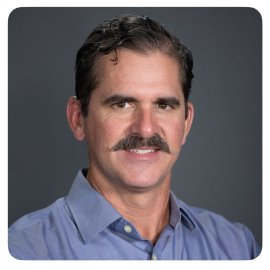
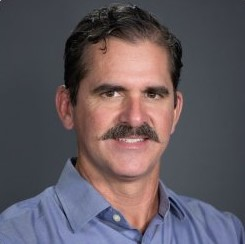
Team Tab Image Changes

diff --git a/team.html b/team.html
@@ -25,7 +25,7 @@
 
 								<!-- Nav -->
 									<nav id="nav">
-										<a href="home.html">Home</a>
+										<a href="index.html">Home</a>
 										<a href="team.html">Team</a>
 										<a href="flood.html">Flood Forecasting</a>
 										<a href="project.html">Project Outcomes</a>
@@ -38,17 +38,19 @@
 				</section>
 
 			<!-- Content -->
-				<section id="content">
-					<div class="container">
-						<div class="row">
+				<section id="content" style="background-color:white;">
+					<div class="container" >
+						<div class="row" >
 							<div class="col-4 col-12-medium">
 								<section>
+									
 									<header>
 										<h2>Efthymios Nikolopoulos</h2>
 									</header>
-									<a href="#" class="bordered-feature-image"><img src="images/Thymios.jpg" alt="" /></a>
+									<p style="text-align: center;">
+									<img src="images/Thymios_profile_picture.jpg" height="250px"/></p>
 									<ul class="link-list">
-									<p>
+									<p style="text-align: justify;">
 										Dr. Efthymios (Thymios) Nikolopoulos is Associate Professor of Civil and Environmental Engineering at Rutgers University – New Brunswick in Piscataway, New Jersey, USA. He received his Environmental Engineering Diploma from the Technical University of Crete, Greece, his M.Sc. degree from the University of Iowa, and his Ph.D. degree from the University of Connecticut, USA. His expertise is in the modeling and monitoring of hydrometeorological and hydrological extremes. His work focuses on the integration of remote sensing earth observations with numerical and statistical models to advance prediction of hydrological hazards. Thymios is the Principal Investigator of this project, coordinating the development of the flash flood forecasting system and capacity building activities at the West Africa hub.
 										<br>
 										Email : efthymios.nikolopoulos@rutgers.edu
@@ -64,9 +66,12 @@
 										<header>
 											<h2>JJ Gourley</h2>
 										</header>
-										<a href="#" class="bordered-feature-image"><img src="images/JJ_Gourley.jpeg" alt="" /></a>
+										<!-- <a href="#" class="bordered-feature-image"> -->
+											<p style="text-align: center;">
+											<img src="images/JJ_Gourley.jpeg" height="250px"/></p>
+										<!-- </a> -->
 										<ul class="link-list">
-											<p>
+											<p style="text-align: justify;">
 												Dr. Jonathan J. Gourley is a Research Hydrometeorologist with the NOAA/National Severe Storms Laboratory and an Affiliate Associate Professor with the School of Meteorology and Civil Engineering departments at the University of Oklahoma. He received his B.S. (1996) and M.S. degrees (1998) in Meteorology and Ph.D. in Civil Engineering (2003) from the University of Oklahoma. From 2004-2005, he joined MétéoFrance in Paris, France for his post-doctoral studies where he focused on dual-polarization radar data quality and hydrometeor classification. He rejoined NSSL in 2006 as a federal employee. His primary research interests are in unique observations of stormscale hydrometeorological states and fluxes and development of models to forecast them. He manages an interdisciplinary team that is responsible for the research, development, and transition of the FLASH system to the U.S. National Weather Service for operational flash flood monitoring and prediction. Dr. Gourleyhas won the Department of Commerce Bronze and two Silver Medal Awards, the American Meteorological Society Journal of Hydrometeorology Editor’s Award, and NASA’s Group Achievement and Robert H. Goddard Team Awards for his contributions to the algorithms comprising the Global Precipitation Measurement mission. He has served as the chair of the AMSCommittee on Nationwide Network of Networks since 2020. Dr. Gourley is an Associate Editor for the American Geophysical Union’s Water Resources Research journal. He has published over 160 peer-reviewed journal articles achieving an h-index of 58 and he is the co-author of the Radar Hydrology textbook. 
 
 											</p>
@@ -78,9 +83,10 @@
 										<header>
 											<h2>Georgios</h2>
 										</header>
-										<a href="#" class="bordered-feature-image"><img src="images/georgios.jpg" alt="" /></a>
+										<p style="text-align: center;"><img src="images/georgios.jpg" height="250px"/></p>
+										
 										<ul class="link-list">
-											<p>
+											<p style="text-align: justify;">
 												Short bio and role on this project
 												<br> <br> <br> <br> <br> <br> <br> <br> <br> <br> <br> <br> <br> <br> <br> <br><br> <br> <br> <br> <br> <br><br> <br> <br> <br> <br> <br><br> <br> <br> <br>
 											</p>
@@ -92,11 +98,12 @@
 										<header>
 											<h2>Gonzalo</h2>
 										</header>
-										<a href="#" class="bordered-feature-image"><img src="images/Gonzalo.jpg" alt="" /></a>
+										<p style="text-align: center;">
+										<img src="images/Gonzalo.jpg" height="250px" /></p>
 										<ul class="link-list">
-											<p>
+											<p style="text-align: justify;">
 												Short bio and role on this project
-												<br> <br> <br> <br> <br> <br> <br> <br> <br> <br> <br> <br> <br> <br> <br> <br>
+												<br> <br> <br> <br> <br> <br> <br> <br> <br> <br> <br> <br> <br> <br> <br> <br> 
 											</p>
 										</ul>
 									</section>
@@ -106,11 +113,12 @@
 										<header>
 											<h2>Malihe Nasibi</h2>
 										</header>
-										<a href="#" class="bordered-feature-image"><img src="images/Malihe.jpeg" alt="" /></a>
+										<p style="text-align: center;">
+										<img src="images/Malihe.jpg" height="250px"/></p>
 										<ul class="link-list">
-											<p>
+											<p style="text-align: justify;">
 											Malihe is a Ph.D. student in the water resources program at George Mason University, working under the guidance of Dr. Maggioni. She received master’s degree in water resources engineering from PWUT, Tehran, Iran. Her research interests are rooted in water resources engineering, concentrating on hydrologic modeling, satellite-based remote sensing, extreme precipitation, and flood forecasting. Her current research focuses on the spatial patterns and temporal trends of extreme precipitation in West Africa.
-											<br> <br> <br> <br> <br> <br> <br>
+											<br> <br> <br> <br> <br> <br> <br> 
 										</p>
 										</ul>
 									</section>
@@ -120,9 +128,10 @@
 										<header>
 											<h2>Akshay Aravamudan</h2>
 										</header>
-										<a href="#" class="bordered-feature-image"><img src="images/akshay.jpg" alt="" /></a>
+										<p style="text-align: center;">
+										<img src="images/akshay.jpg" height="250px" /></p>
 										<ul class="link-list">
-											<p>
+											<p style="text-align: justify;">
 												Akshay Aravamudan is a doctoral student majoring in computer engineering at Florida Institute of Technology. His research areas of interest include machine learning, stochastic point processes for the study of information diffusion and influence characterization in social media, machine learning for hydrology and machine learning on the edge. Before joining FIT’s Center for Advanced Data Analytics & Systems (CADAS), he obtained his Masters of Science in computer engineering at Florida Institute of Technology. His masters thesis involved the study of information diffusion in social media via the use of multivariate survival processes. More information can obtained in his website :
 												<br>
 												<a href="https://aaravamudan2014.github.io/Akshay-Aravamudan/">Github</a>
@@ -139,9 +148,9 @@
 										<header>
 											<h2>Humberto Vergara</h2>
 										</header>
-										<a href="#" class="bordered-feature-image"><img src="images/VergaraH.jpeg" alt="" /></a>
+										<p style="text-align: center;"><img src="images/VergaraH.jpeg" height="250px" width="220px" /></p>
 										<ul class="link-list">
-											<p>
+											<p style="text-align: justify;">
 												Short bio and role on this project
 												<br> <br> <br> <br> <br> <br> <br> <br> <br> <br> <br> <br> <br> <br> <br> <br> <br> <br> <br> <br> <br> <br> <br> <br> <br> <br> <br> <br> <br> <br>
 											</p>
@@ -153,9 +162,9 @@
 										<header>
 											<h2>Viviana Maggioni</h2>
 										</header>
-										<a href="#" class="bordered-feature-image"><img src="images/V_Maggioni.jpg" alt="" /></a>
+										<p style="text-align: center;"><img src="images/V_Maggioni_satellite1.jpg" height="250px" width="230px" /></p>
 										<ul class="link-list">
-											<p>
+											<p style="text-align: justify;">
 												Viviana Maggioni, PhD. is Associate Professor of Environmental and Water Resources Engineering at George Mason University. Dr. Maggioni received her B.S. and M.S. degrees in Environmental Engineering from the Polytechnic University of Milan, Italy, in 2003 and 2006 respectively, and her Ph.D. degree in Environmental Engineering from the University of Connecticut, Storrs, in 2012. Her research interests lie at the intersection of hydrology and remote sensing. In particular, she is interested in the application of satellite remote sensing techniques to estimate and monitor hydrological variables at the local to global scale. Her work has direct applications in water resources management, weather and climate prediction, as well as agriculture and irrigation practices. Since 2010, she has published 67 peer-reviewed scientific articles, 5 book chapters, 3 scientific reports, and co-edited a book on Extreme Hydroclimatic Events and Multivariate Hazards in a Changing Climate (Elsevier, 2019). She is the Editor in Chief of the Journal of Hydrometeorology (American Meteorological Society Publications) and Associate Editor of Frontier in Climate – Climate Services. She currently serves as the Chair of the American Geophysical Union (AGU) Fall Meeting Program Committee for the Hydrology Section and as the Director of Undergraduate Affairs in her Department at Mason. She has served as one of the two co-chairs of the International Precipitation Working Group (IPWG) and the Chair of the AGU Technical Committee on Precipitation.
 												<br>
 												<a href="https://maggioni.vse.gmu.edu/">Profile Link</a>
@@ -168,9 +177,10 @@
 											<header>
 												<h2>Vanessa Robledo D</h2>
 											</header>
-											<a href="#" class="bordered-feature-image"><img src="images/Robledo_V.jpg" alt="" /></a>
+											<p style="text-align: center;"><img src="images/Robledo_V_Picture.jpg" height="250px" /></p>
 											<ul class="link-list">
-												<p>Vanessa Robledo is an environmental engineer with a Master's degree in Environmental Engineering. 
+												<p style="text-align: justify;">
+													Vanessa Robledo is an environmental engineer with a Master's degree in Environmental Engineering. 
 													Her professional expertise lies in the fields of hydrometeorology and climatology, 
 													with a specific focus on studying extreme precipitation events in tropical regions. 
 													Currently, she is pursuing a Ph.D., driven by a keen interest in exploring 
@@ -192,9 +202,9 @@
 												<header>
 													<h2>Xi Zhang</h2>
 												</header>
-												<a href="#" class="bordered-feature-image"><img src="images/xi.jpg" alt="" /></a>
+												<p style="text-align: center;"><img src="images/xi.jpg" height="250px" /></p>
 												<ul class="link-list">
-													<p>
+													<p style="text-align: justify;">
 														Short bio and role on this project
 														<br> <br> <br> <br> <br> <br> <br> <br> <br> <br> <br> <br>
 													</p>
@@ -206,9 +216,9 @@
 													<header>
 														<h2>Ankita Kukrety</h2>
 													</header>
-													<a href="#" class="bordered-feature-image"><img src="images/Ankita.jpg" alt="" /></a>
+													<p style="text-align: center;"><img src="images/Ankita.jpg" height="250px" /></p>
 													<ul class="link-list">
-														<p>
+														<p style="text-align: justify;">
 															Short bio and role on this project
 															<br> <br> <br> <br> <br> <br> <br> <br> <br> <br> <br> <br>
 														</p>
